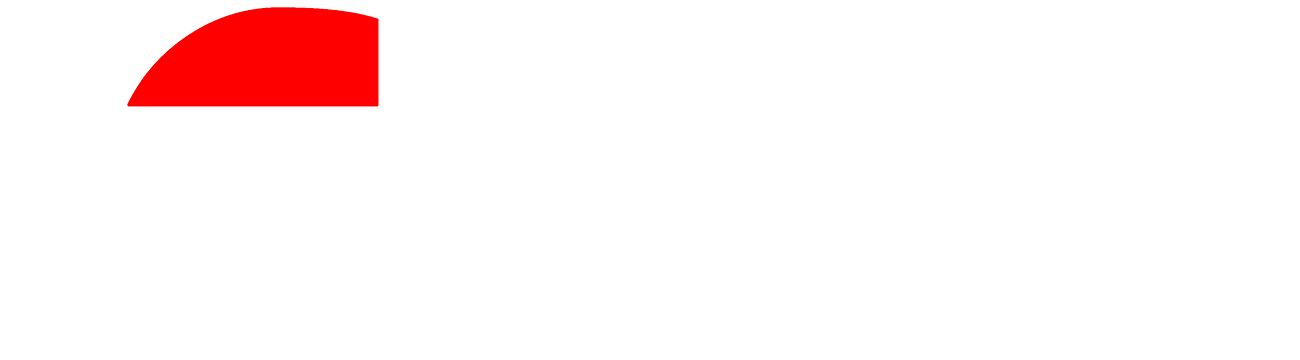
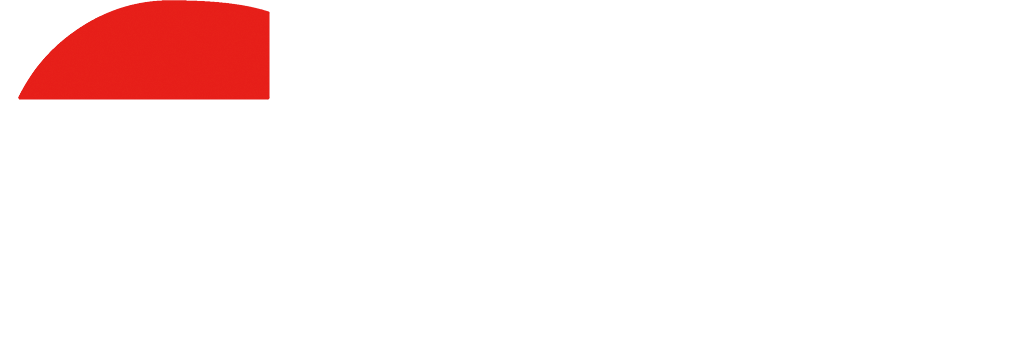
Ready

Changed region(s): [[0.0, 0.0, 0.3107, 0.317]]

diff --git a/index.html b/index.html
@@ -79,8 +79,8 @@
 
       <ul class="header-social">
          <li><a href="#"><i class="fa fa-wechat"></i></a></li>
-         <li><a href="#"><i class="fa fa-facebook"></i></a></li>
-         <li><a href="#"><i class="fa fa-twitter"></i></a></li>
+         <li><a href="https://www.facebook.com/CNengineer.ORG/"><i class="fa fa-facebook"></i></a></li>
+         <li><a href="https://twitter.com/CNengineer_ORG"><i class="fa fa-twitter"></i></a></li>
          <!--li class="dropdown">
             <a class="dropdown-toggle" data-toggle="dropdown" href="#">UsrIcon
                <b class="caret"></b>
@@ -103,15 +103,16 @@
 
             <ul class="slides">
 
-               <li><img style="width: 100%; height: 100%" src="images/pic1.png" alt=""></li> <!-- slide ends -->
-               <li><img style="width: 100%; height: 100%" src="images/pic2.png" alt=""></li> <!-- slide ends -->
-               <!--li><img style="width: 100%; height: 100%" src="images/pic3.png" alt=""></li> <!-- slide ends -->
-               <!--li><img style="width: 100%; height: 100%" src="images/THU.png" alt=""></li> <!-- slide ends -->
-
+                <li><img style="width: 100%; height: 100%" src="images/background003.jpg" alt=""></li>
+                <li><img style="width: 100%; height: 100%" src="images/background001.jpg" alt=""></li>
+                <li><img style="width: 100%; height: 100%" src="images/background002.jpg" alt=""></li>
+                <li><img style="width: 100%; height: 100%" src="images/background006.png" alt=""></li>
+                <!--li><img style="width: 100%; height: 100%" src="images/background004.jpg" alt=""></li>
+                <li><img style="width: 100%; height: 100%" src="images/background005.jpg" alt=""></li>
+                <li><img style="width: 100%; height: 100%" src="images/background006.png" alt=""></li-->
             </ul>
+            <img class="layer" style="width: 100%; height: 100%;" src="images/title1920.png" alt="">
          </div> <!-- div.flexslider ends -->
-
-        <img class="layer" style="width: 40%; height: 20%;" src="images/garfield.jpg">
 
    </section> <!-- Homepage Hero end -->
 
@@ -121,7 +122,7 @@
    <section id='features'>
 
       <div class="feature-text">
-         <h2>简介</h2>
+         <!--h2>简介</h2-->
       </div>
 
 
@@ -134,7 +135,7 @@
          </div>
 
          <div class="six columns feature-media left">
-             <a href=""><img src="images/feature-image-1.png" alt="" /></a>
+             <a href=""><img src="images/About-Us.png" alt="" /></a>
          </div>
 
       </div>
@@ -148,7 +149,7 @@
          </div>
 
          <div class="six columns feature-media right">
-             <a href=""><img src="images/feature-image-2.png" alt="" /></a>
+             <a href=""><img src="images/constitution.png" alt="" /></a>
          </div>
 
       </div>
@@ -162,7 +163,7 @@
          </div>
 
          <div class="six columns feature-media left">
-            <a href=""><img src="images/feature-image-1.png" alt="" /></a>
+            <a href=""><img src="images/member.png" alt="" /></a>
          </div>
 
       </div>
@@ -172,11 +173,11 @@
          <div class="six columns left">
             <h3>责任，义务，权利</h3>
 
-            <p>联合学会会在遵守所在各地的法律法规；不带有政治目的、不涉及政治立场；不存在歧视的前提下，为所有学会的会员、准会员提供学术交流的平台。学会有义务在能力范围内解决，满足任何会员的需求，并充分考虑任何会员的合理建议。所有学会的收益及所有学会的资产将暂时委托理事会决定的财务官保管，并在未来全部投入于学会建设及会员福利工作。联合学会有权利合理的接受、吸纳、邀请或免除任一成员的现有职务；向任一会员收取由章程规定的合理的会费；吸引赞助提升或以发展学会；以帮助会员为目的消耗学会财产。</p>
+            <p>联合学会会在遵守所在各地的法律法规，不带有政治目的、不涉及政治立场，不存在歧视的前提下，为所有学会的会员、准会员提供学术交流的平台。学会有义务在能力范围内解决，满足任何会员的需求，并充分考虑任何会员的合理建议。所有学会的收益及所有学会的资产将暂时委托理事会决定的财务官保管，并在未来全部投入于学会建设及会员福利工作。联合学会有权利合理的接受、吸纳、邀请或免除任一成员的现有职务，或开除其会籍，以及向任一会员收取由规程规定的合理的会费，吸引赞助，以及以发展学会，帮助会员为目的消耗学会财产。</p>
          </div>
 
          <div class="six columns feature-media right">
-            <a href=""><img src="images/feature-image-2.png" alt="" /></a>
+            <a href=""><img src="images/rights_and_reponsibilities.png" alt="" /></a>
          </div>
 
       </div>
@@ -194,73 +195,68 @@
    ================================================== -->
    <section id="call-to-action">
 
-      <div class="row section-head">
+      <!--div class="row section-head">
          <h2>里程碑</h2>
-      </div>
+      </div-->
 
       <div class="row">
           <div class="twelve columns">
               <ul class="timeline">
                   <li>
                       <div class="timeline-image">
-                          <img class="rounded-circle img-fluid" src="images/timeline/1.jpg" alt="">
+                          <img class="rounded-circle img-fluid" src="images/timeline/pre.png" alt="">
                       </div>
                       <div class="timeline-panel">
                           <div class="timeline-heading">
-                              <h4>2015年十月</h4>
-                              <h4 class="subheading">前身</h4>
+                              <h4><span class="a">2015年10月&nbsp;</span><span class="b">前身</span></h4>
                           </div>
                           <div class="timeline-body">
-                              <p class="text-muted">从2012年开始，香港大学工程学院与英国剑桥大学工程学院开始联合招生。第四届香港大学-剑桥大学联合培养计划成为了我们的中坚力量。</p>
+                              <p class="text-muted">从2012年开始，香港大学推出了与剑桥大学的联合招生计划，到2016年，参与此计划的四届同学已经遍布全球各地，产生了对跨高校交流社群的迫切需求。</p>
                           </div>
                       </div>
                   </li>
                   <li class="timeline-inverted">
                       <div class="timeline-image">
-                          <img class="rounded-circle img-fluid" src="images/timeline/2.jpg" alt="">
+                          <img class="rounded-circle img-fluid" src="images/timeline/origin.png" alt="">
                       </div>
                       <div class="timeline-panel">
                           <div class="timeline-heading">
-                              <h4>2017年七月</h4>
-                              <h4 class="subheading">起源</h4>
+                              <h4><span class="a">2017年7月&nbsp;</span><span class="b">起源</span></h4>
                           </div>
                           <div class="timeline-body">
-                              <p class="text-muted">在茶余饭后的闲聊中，前往麻省理工学院的陈同学与前往剑桥大学的王同学互相试探着对方对于组建一个属于华人的工程师联合会的想法，结果一拍即合。</p>
+                              <p class="text-muted">前往麻省理工学院与剑桥大学的两位同学讨论了对于组建一个属于华人的工程师联合会的想法，并一致认为具有非常高的可行性和市场需求。</p>
                           </div>
                       </div>
                   </li>
                   <li>
                       <div class="timeline-image">
-                          <img class="rounded-circle img-fluid" src="images/timeline/3.jpg" alt="">
+                          <img class="rounded-circle img-fluid" src="images/timeline/blueprint.png" alt="">
                       </div>
                       <div class="timeline-panel">
                           <div class="timeline-heading">
-                              <h4>2017年八月</h4>
-                              <h4 class="subheading">筹建</h4>
+                              <h4><span class="a">2017年8月&nbsp;</span><span class="b">筹建</span></h4></h4>
                           </div>
                           <div class="timeline-body">
-                              <p class="text-muted">筹建小组由六名来自麻省理工学院，剑桥大学，香港大学，清华大学的志同道合的朋友组成。</p>
+                              <p class="text-muted">联合学会由六名来自麻省理工学院，剑桥大学，香港大学，清华大学的志同道合的朋友共同创建。</p>
                           </div>
                       </div>
                   </li>
                   <li class="timeline-inverted">
                       <div class="timeline-image">
-                          <img class="rounded-circle img-fluid" src="images/timeline/4.jpg" alt="">
+                          <img class="rounded-circle img-fluid" src="images/timeline/online.png" alt="">
                       </div>
                       <div class="timeline-panel">
                           <div class="timeline-heading">
-                              <h4>2017年九月</h4>
-                              <h4 class="subheading">网站上线</h4>
+                              <h4><span class="a">2017年9月&nbsp;</span><span class="b">网站上线</span></h4>
                           </div>
                           <div class="timeline-body">
-                              <p class="text-muted">2017年九月一日，华人工程师暨学生学者联合学会网站正式上线。</p>
+                              <p class="text-muted">9月1日，华人工程师暨学生学者联合学会网站正式上线，目前联合学会正在筹备下一步的发展。</p>
                           </div>
                       </div>
                   </li>
                   <li class="timeline-inverted">
                       <div class="timeline-image">
-                          <h3>敬请
-                              <br>期待</h3>
+                          <img class="rounded-circle img-fluid" src="images/timeline/future.png" alt="">
                       </div>
                   </li>
               </ul>
@@ -291,7 +287,9 @@
                </a>
             </div>
 
-            <p>联系方式</p>
+             <p class="name">华人工程师暨学生学者联合学会</br>CNengineer.ORG</p>
+
+            <!--p>联系方式</p-->
 
          </div>
 
@@ -303,8 +301,8 @@
                   <h3 class="social"></h3>
                   <ul>
                      <li><a href="#">微信</a></li>
-                     <li><a href="#">Facebook</a></li>
-                     <li><a href="#">Twitter</a></li>
+                     <li><a href="https://www.facebook.com/CNengineer.ORG/">Facebook</a></li>
+                     <li><a href="https://twitter.com/CNengineer_ORG">Twitter</a></li>
                   </ul>
                </div>
 
@@ -323,7 +321,7 @@
 
          </div>
 
-         <p class="copyright">&copy; 2017 CNengineer | Designed by CNengineer</p>
+         <p class="copyright">&copy; 2017 CNengineer.ORG | Designed by CNengineer.ORG</p>
 
          <div id="go-top">
             <a class="smoothscroll" title="Back to Top" href="#hero"><i class="icon-up-open"></i></a>

diff --git a/css/layout.css b/css/layout.css
@@ -185,8 +185,8 @@ ul#nav li.current a { color: #fff; }
 
 img.layer {
     position: absolute;
-    left: 30%;
-    top: 30%;
+    left: 0%;
+    top: 0%;
     z-index: 1;
 }
 
@@ -527,7 +527,7 @@ ul.features li:nth-child(even) { }
 }
 #call-to-action p {
     color: #697B8B;
-    font-size: 17px;
+    font-size: 15px;
     padding-right: 5px;
 }
 #call-to-action p span {
@@ -780,8 +780,8 @@ footer .footer-logo a {
     margin-left: 3px;
 }
 footer .footer-logo a img {
-    height: 24px;
-    width: 92px;
+    height: 35px;
+    width: 103px;
 }
 
 footer .right-cols .columns {
@@ -824,6 +824,9 @@ footer ul li a,
 footer ul li a:visited { color: #ffffff; }
 footer ul li a:hover,
 footer ul li a:focus { color: #F86A5A; }
+footer .name {
+    color: #ffffff;
+}
 
 /* copyright */
 footer .copyright {
@@ -860,7 +863,7 @@ footer .copyright {
     line-height: 60px;
     border-radius: 100%;
 }
-#go-top a:hover { background: #0F9095; }
+#go-top a:hover { background: #F86A5A; }
 
 
 /* ------------------------------------------------------------------ */

diff --git a/css/timeline.css b/css/timeline.css
@@ -57,7 +57,7 @@
   height: 80px;
   position: absolute;
   z-index: 100;
-  background-color: #e71e18;
+  background-color: #ffffff;
   color: white;
   border-radius: 100%;
   border: 7px solid #ffffff;;
@@ -92,6 +92,14 @@
   margin-top: 0;
   color: inherit;
 }
+.timeline .timeline-heading h4 .a {
+  font-size: 15px;
+  color: #ffffff;
+}
+.timeline .timeline-heading h4 .b {
+  font-size: 20px;
+  color: #f8fa41;
+}
 .timeline .timeline-heading h4.subheading {
   text-transform: none;
 }
@@ -99,6 +107,8 @@
 .timeline .timeline-body > ul {
   margin-bottom: 0;
 }
+
+
 @media (min-width: 768px) {
   .timeline:before {
     left: 50%;
